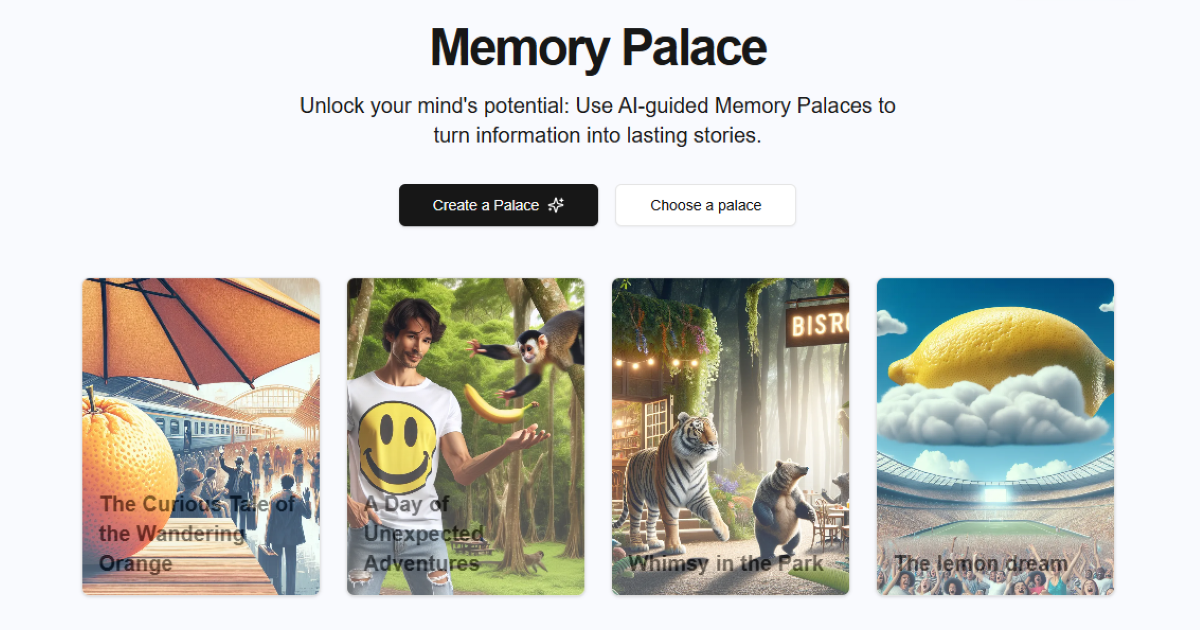
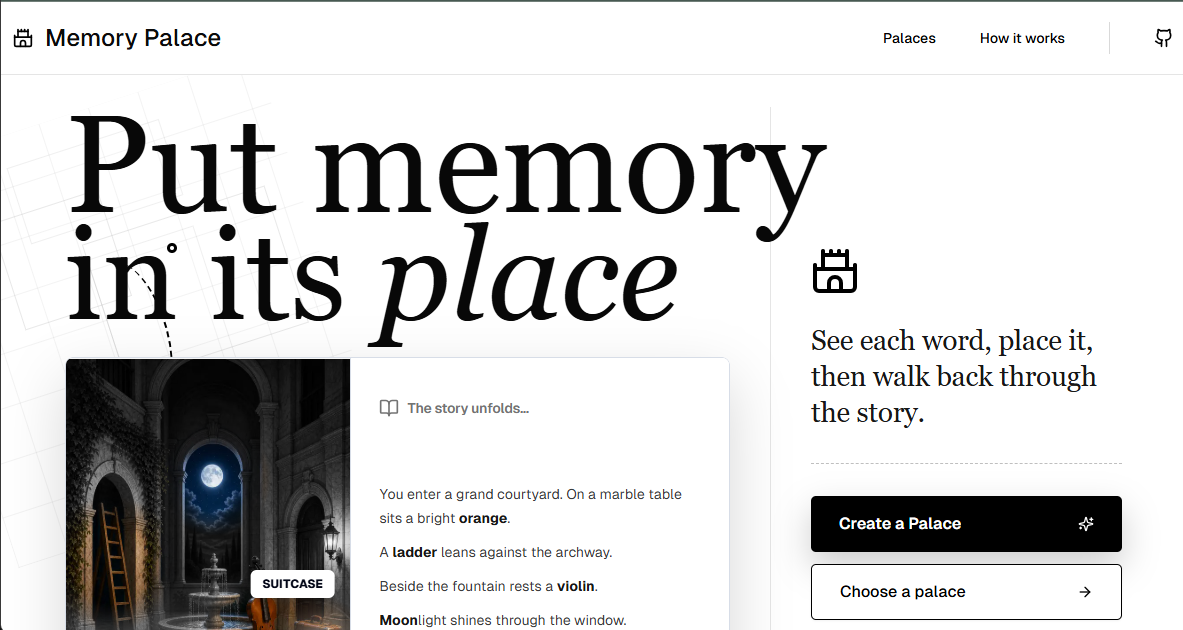
og

diff --git a/src/app/layout.tsx b/src/app/layout.tsx
@@ -17,7 +17,29 @@ const geistMono = localFont({
 
 export const metadata: Metadata = {
   title: "Memory Palace",
-  description: "Use the Loci method to memorize anything.",
+  description:
+    "Unlock your mind's potential: Use AI-guided Memory Palaces to turn information into lasting stories.",
+  openGraph: {
+    title: "Memory Palace",
+    description:
+      "Unlock your mind's potential: Use AI-guided Memory Palaces to turn information into lasting stories.",
+    type: "website",
+    images: [
+      {
+        url: "/opengraph-image.png",
+        width: 1200,
+        height: 630,
+        alt: "Memory Palace app preview",
+      },
+    ],
+  },
+  twitter: {
+    card: "summary_large_image",
+    title: "Memory Palace",
+    description:
+      "Unlock your mind's potential: Use AI-guided Memory Palaces to turn information into lasting stories.",
+    images: ["/opengraph-image.png"],
+  },
 };
 
 export default function RootLayout({